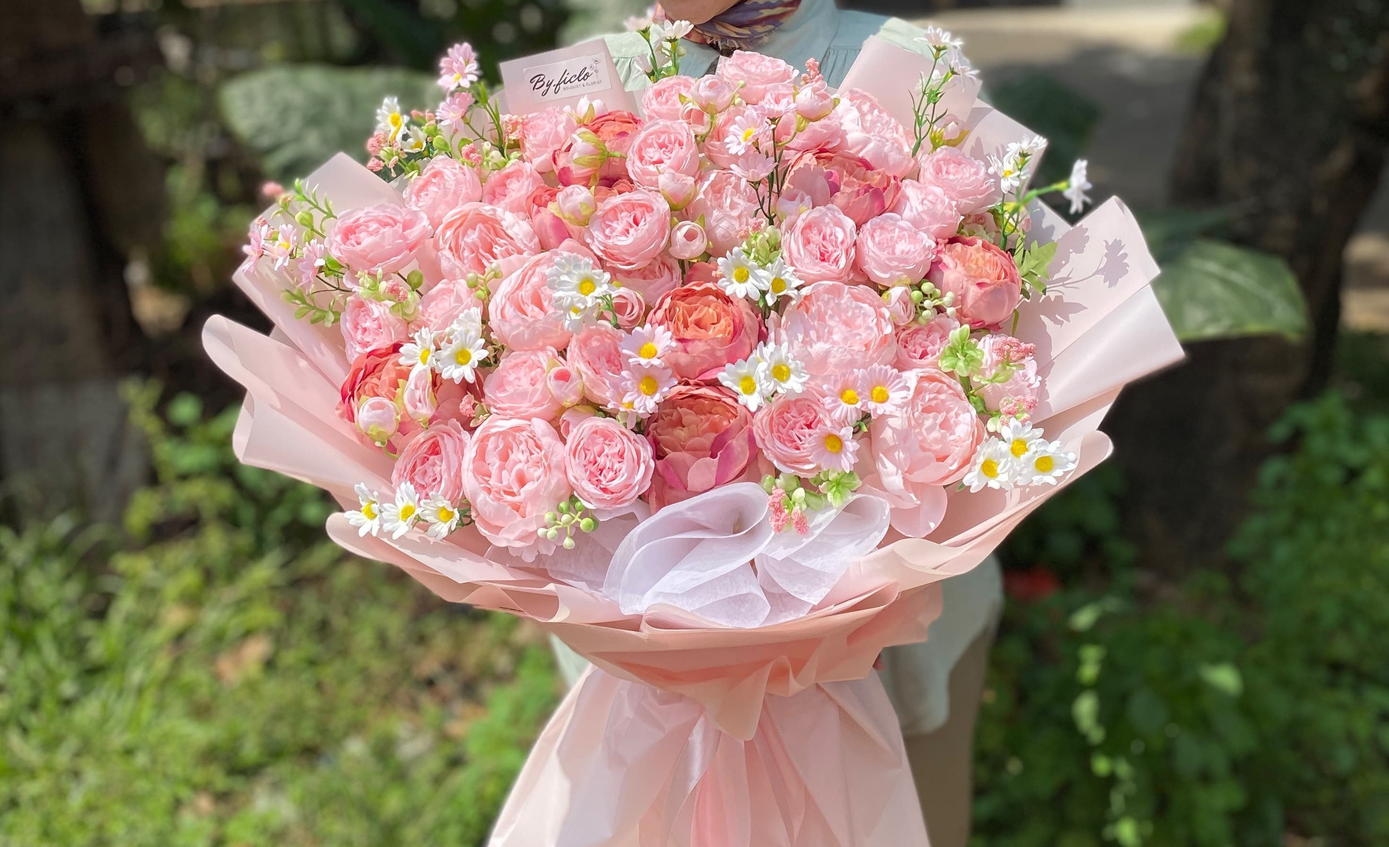
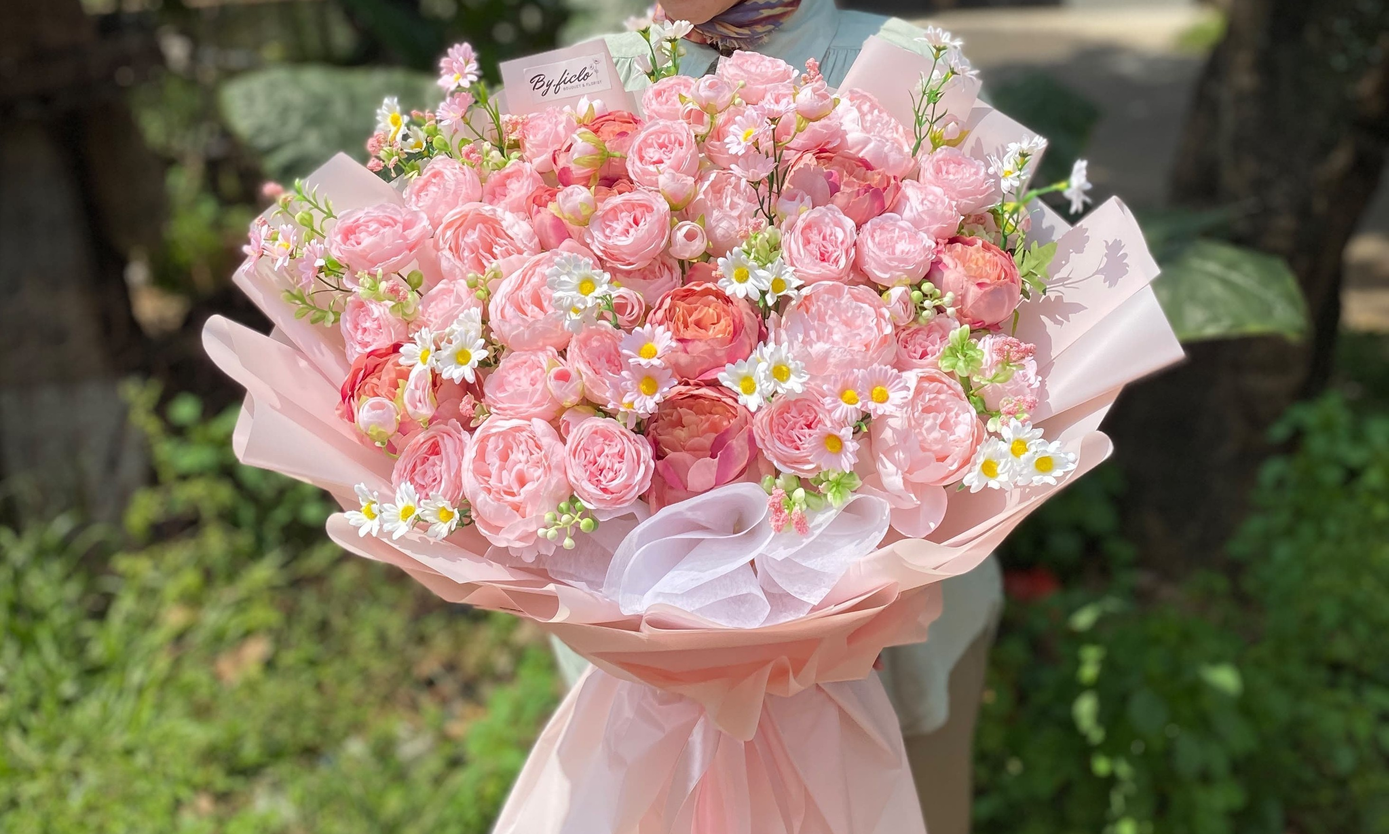
feat: add about section

diff --git a/src/components/landing/AboutSection.jsx b/src/components/landing/AboutSection.jsx
@@ -1,0 +1,58 @@
+import welcome from '../../assets/about.png'
+import pattern2 from '../../assets/pattern.png'
+import FlowerDecor from '../ui/FlowerDecor'
+
+const PARAGRAPHS = [
+  'Welcome to by.ficlo, where every bloom tells a story of love, joy, and meaningful celebration. Born out of a passion for floral artistry, we handcraft delicate arrangements that add a touch of warmth and elegance to your special moments. Whether you are celebrating a graduation, an anniversary, or simply surprising someone special, we bring your sweet visions to life.',
+  'We carefully select fresh, premium flowers and blend them with aesthetic wrapping styles to create custom bouquets tailored to your personality. From vibrant mixed florals to soft coquette palettes, our mission is to deliver not just flowers, but memorable smiles and heartfelt emotions straight to your loved ones.',
+]
+
+// Pola zig-zag: 2 baris kiri-kanan yang sejajar, 3 bunga di tengah
+const FLOWERS = [
+  // baris atas: kiri dan kanan sejajar
+  { left: '10.9%', top: '1%', width: 280, rotate: -8 },
+  { left: '71.9%', top: '1%', width: 280, rotate: 10 },
+  // baris bawah: kiri dan kanan sejajar
+  { left: '10.9%', top: '61%', width: 280, rotate: -6 },
+  { left: '71.9%', top: '61%', width: 280, rotate: 12 },
+  // tengah (3): atas menyembul, di antara dua baris, bawah terpotong
+  { left: '40.3%', top: '-21%', width: 280, rotate: 6 },
+  { left: '40.3%', top: '31%', width: 280, rotate: -4 },
+  { left: '40.3%', top: '87%', width: 280, rotate: 8 },
+].map((flower) => ({ ...flower, src: pattern2, opacity: 0.3 }))
+
+export default function AboutSection() {
+  return (
+    <section
+      id="about"
+      className="relative scroll-mt-24 overflow-hidden bg-ivory px-4 py-16 sm:px-6 lg:px-12 lg:py-24"
+    >
+      <FlowerDecor items={FLOWERS} />
+
+      <div className="relative z-10 mx-auto grid max-w-[1440px] items-center gap-10 lg:grid-cols-2 lg:gap-16">
+        {/* Teks */}
+        <div>
+          <h2 className="font-display text-4xl font-bold italic leading-tight text-raspberry sm:text-5xl">
+            Welcome to
+            <br />
+            by.ficlo florist
+          </h2>
+          <div className="mt-6 space-y-6 text-base font-medium text-neutral-900 sm:text-lg lg:text-xl">
+            {PARAGRAPHS.map((text) => (
+              <p key={text.slice(0, 24)}>{text}</p>
+            ))}
+          </div>
+        </div>
+
+        {/* Foto */}
+        <div className="flex justify-center lg:justify-end">
+          <img
+            src={welcome}
+            alt="Buket bunga pink dari by.ficlo"
+            className="w-full max-w-md lg:max-w-lg"
+          />
+        </div>
+      </div>
+    </section>
+  )
+}

diff --git a/src/pages/LandingPage.jsx b/src/pages/LandingPage.jsx
@@ -5,6 +5,7 @@ import OurPromise from '../components/landing/OurPromise'
 import BestSeller from '../components/landing/BestSeller'
 import HowToOrder from '../components/landing/HowToOrder'
 import OurCatalog from '../components/landing/OurCatalog'
+import AboutSection from '../components/landing/AboutSection'
 
 export default function LandingPage() {
   return (
@@ -17,6 +18,7 @@ export default function LandingPage() {
         <BestSeller />
         <HowToOrder />
         <OurCatalog />
+        <AboutSection />
       </main>
     </>
   )
